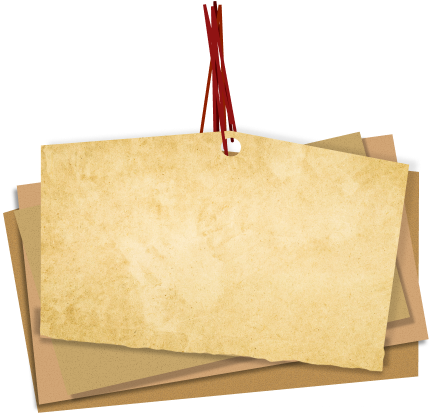
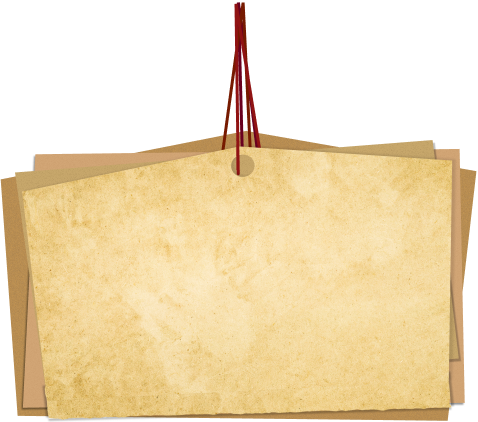
updated contact

diff --git a/src/pages/contact/components/contactGallery/ContactGallery.module.scss b/src/pages/contact/components/contactGallery/ContactGallery.module.scss
@@ -37,30 +37,31 @@
                 position: relative;
                 display: flex;
 
-                $template: 2;
-                aspect-ratio: 1.131;
+                $template: 1;
+                aspect-ratio: 1.085;
                 background-image: url("/images/contact/ContactCard" + $template + ".png");
                 background-size: cover;
 
                 .contactCard {
                     display: flex;
-                    gap: 0.5rem;
-                    height: 45%;
-                    width: 75%;
+                    gap: 0.1rem;
+                    height: 54%;
+                    width: 87%;
                     position: relative;
                     left: 50%;
                     margin-top: auto;
-                    margin-bottom: 9%;
-                    transform: translateX(-50%) rotateZ(-4deg);
+                    margin-bottom: 3%;
+                    transform: translateX(-46.5%) rotateZ(-2deg);
                     .contactImgContainer {
                         display: flex;
                         align-items: center;
-                        min-width: 36%;
+                        min-width: 27%;
+                        max-width: 36%;
                         max-height: 100%;
                         img {
                             width: 100%;
                             max-height: 100%;
-                            object-fit: cover;
+                            object-fit: contain;
                         }
 
                         @media (max-width: 600px) {min-width: 30%;}
@@ -82,8 +83,8 @@
                             font-weight: 100;
                             font-family: 'Averia Serif Libre', serif;
                             text-align: center;
-                            -webkit-line-clamp: 2;
-                            line-clamp: 2;
+                            -webkit-line-clamp: 3;
+                            line-clamp: 3;
                             overflow: hidden;
                             display: -webkit-box;
                             -webkit-box-orient: vertical;
@@ -103,17 +104,16 @@
                         }
 
                         @media (max-width: 600px) {
-                            .contactName {font-size: 0.8rem; line-height: 0.8rem;}
+                            .contactName {font-size: 0.9rem; line-height: 0.9rem;}
                             .contactPosition {font-size: 0.6rem; line-height: 0.6rem;}
                             .contactLinks {
-                                gap: 0.5rem;
+                                gap: 1rem;
                                 div {
-                                    height: 0.6rem;
+                                    height: 0.8rem;
                                     .contactIcon {
-                                        font-size: 0.6rem; 
-                                        height: 0.6rem;
+                                        font-size: 0.8rem; 
+                                        height: 0.8rem;
                                         position: relative;
-                                        top: -0.2rem;
                                     }
                                 }
                             }

diff --git a/src/pages/contact/ContactPage.tsx b/src/pages/contact/ContactPage.tsx
@@ -1,12 +1,25 @@
 import ContactGallery from './components/contactGallery/ContactGallery';
 import styles from './Contact.module.scss';
-import doors from '/images/contact/DoorsCombined.png'
+import doors from '/images/contact/DoorsCombined.png';
+import doorsMobile from '/images/contact/DoorsMobile.png';
 import BackButton from '../components/backButton/BackButton';
+import { useEffect, useState } from 'react';
 
 export default function Contact() {
+
+    const [isMobile, setIsMobile] = useState<boolean>(window.innerWidth <= 900)
+
+    useEffect(() => {
+        const handleResize = () => setIsMobile(window.innerWidth <= 900)
+
+        window.addEventListener("resize", handleResize)
+
+        return () => window.removeEventListener("resize", handleResize)
+    })
+
     return (
         <div className={styles.contactPageWrapper}>
-            <div className={styles.contactPage} style={{backgroundImage: `url(${doors})`}} >
+            <div className={styles.contactPage} style={{backgroundImage: `url(${isMobile ? doorsMobile : doors})`}} >
                     {/* <div className={styles.contactBg}> */}
                     {/* <img className={styles.contactBgImg} src={door1} />
                     <img className={styles.contactBgImg} src={door2} /> */}

diff --git a/src/pages/contact/Contact.module.scss b/src/pages/contact/Contact.module.scss
@@ -18,7 +18,7 @@
             position: relative;
 
             @media (max-width: 600px) {
-                padding: 0.6rem 0.9rem;
+                padding: 0.6rem 0.4rem;
             }
         }
 
@@ -54,10 +54,6 @@
         background-repeat: repeat;
         background-position: center;
         min-height: 100vh;
-
-        @media (max-width: 900px) {
-            background-size: 180vw auto;
-        }
     }
 }
 .contactDoors {
